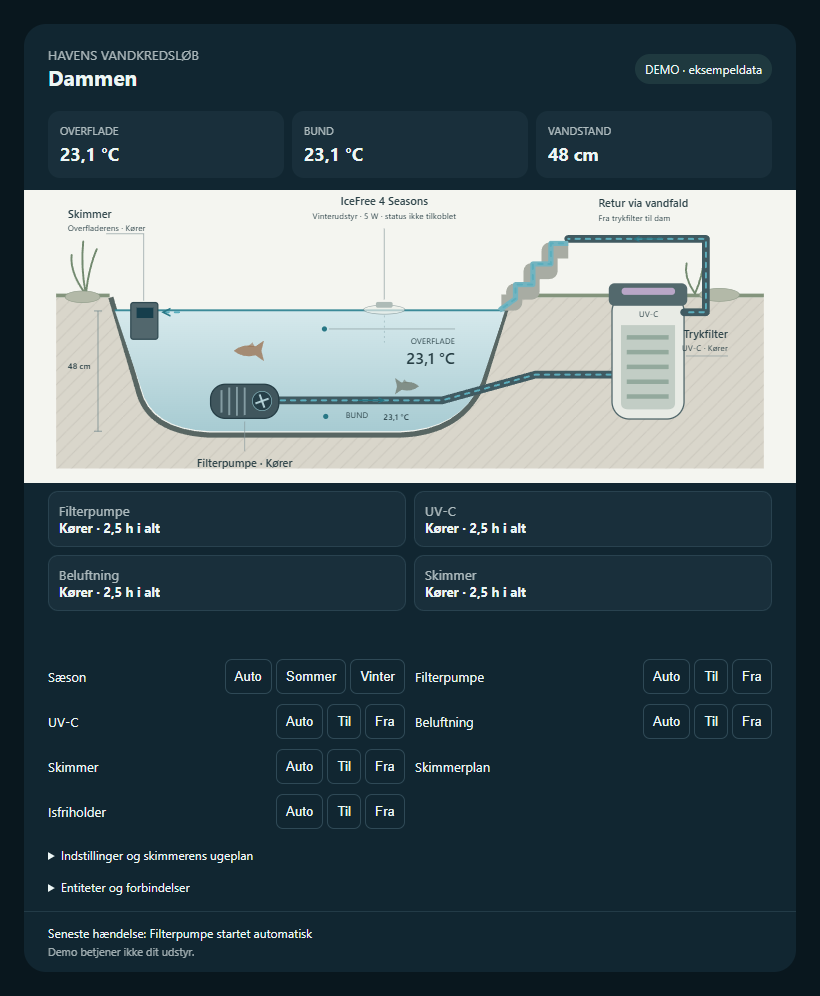
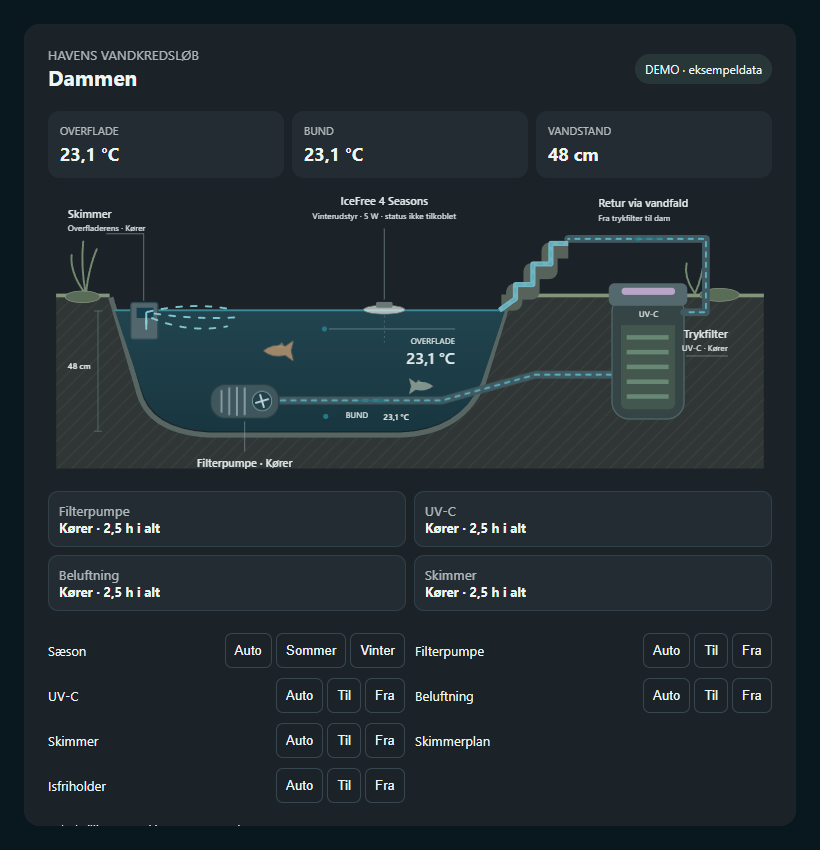
Add dark themed responsive layout and animated pond life

diff --git a/pond-flow-card.js b/pond-flow-card.js
@@ -12,7 +12,8 @@ class PondFlowCard extends HTMLElement {
     const signature = JSON.stringify([Object.keys({...labels,...this.config.entities}).map(key => this.state(key)),Object.entries(hass.states).filter(([id]) => id.startsWith(`number.${prefix}_`) || id.startsWith(`switch.${prefix}_`))]);
     if (signature !== this.signature) { this.signature = signature; this.render(); }
   }
-  getCardSize() { return 7; }
+  getCardSize() { return Math.ceil((this.getBoundingClientRect().height || 650) / 50); }
+  getGridOptions() { return {columns:12,min_columns:6,rows:12,min_rows:8}; }
   entity(key) {
     const explicit = this.config.entities?.[key];
     if (explicit && this._hass?.states[explicit]) return explicit;
@@ -42,6 +43,7 @@ class PondFlowCard extends HTMLElement {
   }
   render() {
     if (!this.config) return;
+    const fishTimes = [...this.shadowRoot.querySelectorAll('.fish-swim')].map(el => el.getAnimations()[0]?.currentTime);
     const demo = this.config.demo === true;
     const active = demo || this.running('pump_running');
     const val = (key, sample) => esc(demo ? sample : this.value(key));
@@ -49,25 +51,29 @@ class PondFlowCard extends HTMLElement {
     const operating = key => demo ? 'Kører' : !this.state(key) || ['unknown','unavailable'].includes(this.state(key).state) ? 'Ukendt' : this.running(key) ? 'Kører' : 'Stoppet';
     this.shadowRoot.innerHTML = `
     <style>
-      :host{display:block}ha-card{display:block;background:var(--ha-card-background,var(--card-background-color,#112631));color:var(--primary-text-color,#edf6f5);border-radius:22px;overflow:hidden;font-family:var(--paper-font-body1_-_font-family,system-ui)}
+      :host{display:block;min-width:0;width:100%;height:100%;container-type:inline-size}ha-card{display:flex;flex-direction:column;box-sizing:border-box;width:100%;height:100%;min-width:0;background:var(--ha-card-background,var(--card-background-color,#1c2328));color:var(--primary-text-color,#edf6f5);border-radius:var(--ha-card-border-radius,16px);overflow:auto;font-family:var(--paper-font-body1_-_font-family,system-ui)}
       header{padding:22px 24px 8px;display:flex;justify-content:space-between;align-items:center}h2{font-size:21px;margin:0}small{opacity:.7}.badge{font-size:12px;padding:7px 10px;border-radius:30px;background:#54887933}.metrics{display:grid;grid-template-columns:repeat(3,1fr);gap:8px;padding:12px 24px}.metric{background:#7396a415;padding:12px;border-radius:12px}.metric small{display:block;font-size:11px}.metric strong{display:block;margin-top:4px;font-size:18px}
-      svg{width:100%;height:auto;display:block}svg text{font-family:system-ui;fill:#d7e9ed;font-size:13px}.flow{fill:none;stroke:#53d5db;stroke-width:7;stroke-linecap:round;stroke-dasharray:9 14;opacity:.28}.active{opacity:1;animation:water 2s linear infinite}@keyframes water{to{stroke-dashoffset:-46}}@media(prefers-reduced-motion:reduce){.active{animation:none}}
+      svg{width:100%;height:auto;min-height:160px;flex:1 0 auto;display:block}ha-card> :not(svg){flex-shrink:0}svg text{font-family:system-ui;fill:#d7e9ed;font-size:13px}.flow{fill:none;stroke:#53d5db;stroke-width:7;stroke-linecap:round;stroke-dasharray:9 14;opacity:.28}.active{opacity:1;animation:water 2s linear infinite}@keyframes water{to{stroke-dashoffset:-46}}@media(prefers-reduced-motion:reduce){.active{animation:none}}
       .controls{padding:4px 24px 18px;display:grid;grid-template-columns:1fr 1fr;gap:10px}.control{display:flex;justify-content:space-between;align-items:center;gap:8px;font-size:13px}.control select{max-width:115px;padding:8px;border:1px solid #7196a550;border-radius:8px;background:var(--card-background-color,#193340);color:inherit}.status{padding:12px 24px;border-top:1px solid #7196a530;font-size:12px;line-height:1.6}.error{color:#f9a99b}.note{opacity:.65;font-size:11px}@media(max-width:420px){.controls{grid-template-columns:1fr}.metrics{padding:12px}.metric strong{font-size:15px}}
       [data-info]{cursor:pointer}.diagram-value{font-size:15px;font-weight:600;fill:#fff}.equipment{display:grid;grid-template-columns:repeat(2,minmax(0,1fr));gap:8px;padding:8px 24px 18px}.equipment button{font:inherit;text-align:left;color:inherit;background:#7396a415;border:1px solid #7196a530;border-radius:10px;padding:10px;cursor:pointer}.equipment small{display:block}.equipment strong{font-size:13px}.controls button{padding:9px;border-radius:7px;border:1px solid #7196a550;color:inherit;background:transparent;cursor:pointer}.controls button[aria-pressed=true]{background:#438b8b55}.options{display:flex;gap:4px;flex-wrap:wrap}.control{flex-wrap:wrap}.rotor{transform-box:fill-box;transform-origin:center;animation:spin 1.8s linear infinite}@keyframes spin{to{transform:rotate(360deg)}}@media(prefers-reduced-motion:reduce){.rotor{animation:none}}details{padding:0 24px 16px;font-size:12px;overflow-wrap:anywhere}
+      .fish-swim{animation:swim 22s linear infinite;transform-box:view-box;transform-origin:0 0}.fish:nth-of-type(even) .fish-swim{animation-duration:29s;animation-delay:-9s}@keyframes swim{0%{transform:translateX(50px) scaleX(1)}46%{transform:translateX(-60px) scaleX(1)}50%{transform:translateX(-60px) scaleX(-1)}96%{transform:translateX(50px) scaleX(-1)}100%{transform:translateX(50px) scaleX(1)}}
+      .skimmer-current path{fill:none;stroke:#8ad3dc;stroke-width:3;stroke-linecap:round;opacity:.15}.skimmer-current.moving path{opacity:.9;stroke-dasharray:9 14;animation:intake 1.5s linear infinite}.skimmer-current.moving path:nth-child(2){animation-delay:-.5s}.skimmer-current.moving path:nth-child(3){animation-delay:-1s}@keyframes intake{to{stroke-dashoffset:-46}}
+      @container(max-width:560px){header{padding:16px 14px 8px;gap:8px;flex-wrap:wrap}.metrics{padding:10px 14px}.equipment{padding:8px 14px 14px}.controls{grid-template-columns:1fr;padding:4px 14px 16px}.control{flex-wrap:nowrap}.options{justify-content:flex-end}.status{padding:12px 14px}details{padding:0 14px 14px}.metric{padding:10px 8px}.metric strong{font-size:16px}.badge{max-width:100%;overflow-wrap:anywhere}}
+      @media(prefers-reduced-motion:reduce){.fish-swim,.skimmer-current.moving path{animation:none}}
     </style>
     <ha-card>
       <header><div><small>HAVENS VANDKREDSLØB</small><h2>${esc(this.config.title || 'Dammen')}</h2></div><span class="badge">${demo ? 'DEMO · eksempeldata' : val('status','')}</span></header>
       <div class="metrics"><div class="metric"><small>OVERFLADE</small><strong>${val('temp_surface','23,1 °C')}</strong></div><div class="metric"><small>BUND</small><strong>${val('temp_bottom','23,1 °C')}</strong></div><div class="metric"><small>VANDSTAND</small><strong>${val('water_level','48 cm')}</strong></div></div>
 <svg class="pond-diagram" role="img" aria-label="Snit gennem dammen med fisk, skimmer, filterpumpe, trykfilter med UV-C og vandfald" xmlns="http://www.w3.org/2000/svg" viewBox="0 175 1200 455">
 <defs>
- <pattern id="earth" width="22" height="22" patternUnits="userSpaceOnUse"><path d="M0 22L22 0" stroke="#b9b6ac" stroke-width=".6"/></pattern>
- <linearGradient id="water" x2="0" y2="1"><stop stop-color="#d6e9ec"/><stop offset="1" stop-color="#a7cbd2"/></linearGradient>
+ <pattern id="earth" width="22" height="22" patternUnits="userSpaceOnUse"><path d="M0 22L22 0" stroke="#4a514c" stroke-width=".6"/></pattern>
+ <linearGradient id="water" x2="0" y2="1"><stop stop-color="#21444e"/><stop offset="1" stop-color="#183640"/></linearGradient>
  <marker id="arrow" viewBox="0 0 10 10" refX="8" refY="5" markerWidth="5" markerHeight="5" orient="auto-start-reverse"><path d="M0 1L8 5L0 9" fill="none" stroke="#287785" stroke-width="1.7"/></marker>
- <style>.pond-diagram text{font-family:Segoe UI,Arial,sans-serif;fill:#263d43}.label{font-size:17px;font-weight:600}.small{font-size:13px;fill:#63777b}.value{font-size:25px;font-weight:600}.leader{fill:none;stroke:#86979a;stroke-width:1}.pipe{fill:none;stroke:#405a61;stroke-width:12;stroke-linejoin:round;stroke-linecap:round}.flow{fill:none;stroke:#5baebd;stroke-width:3;stroke-dasharray:7 9;opacity:.3}.frame{fill:#f9faf7;stroke:#d8dfdb;stroke-width:1}.flow.active{opacity:1}.fish{pointer-events:none}</style>
+ <style>.pond-diagram text{font-family:Segoe UI,Arial,sans-serif;fill:var(--primary-text-color,#e1e8e9)}.label{font-size:17px;font-weight:600}.small{font-size:13px;fill:#63777b}.value{font-size:25px;font-weight:600}.leader{fill:none;stroke:#86979a;stroke-width:1}.pipe{fill:none;stroke:#405a61;stroke-width:12;stroke-linejoin:round;stroke-linecap:round}.flow{fill:none;stroke:#5baebd;stroke-width:3;stroke-dasharray:7 9;opacity:.3}.frame{fill:#f9faf7;stroke:#d8dfdb;stroke-width:1}.flow.active{opacity:1}.fish{pointer-events:none}</style>
 </defs>
-<rect width="1200" height="760" rx="24" fill="#f4f5f0"/>
+<rect width="1200" height="760" rx="24" fill="var(--ha-card-background,var(--card-background-color,#1c2328))"/>
 <!-- Tydeligt tværsnit: jord, bassinfolie og vand. -->
-<path d="M50 342H135L177 485Q192 551 288 556H584Q681 553 714 475L755 342H1150V608H50Z" fill="#d9d6cb"/>
+<path d="M50 342H135L177 485Q192 551 288 556H584Q681 553 714 475L755 342H1150V608H50Z" fill="#303635"/>
 <path d="M50 342H135L177 485Q192 551 288 556H584Q681 553 714 475L755 342H1150V608H50Z" fill="url(#earth)"/>
 <path d="M135 342L177 485Q192 551 288 556H584Q681 553 714 475L755 342" fill="none" stroke="#586663" stroke-width="8"/>
 <path d="M141 362H748L711 474Q679 547 584 550H288Q198 546 182 483Z" fill="url(#water)"/>
@@ -76,11 +82,11 @@ class PondFlowCard extends HTMLElement {
 
 <!-- Beplantning, sparsomt og uden illustrationseffekter. -->
 <g fill="none" stroke="#738a70" stroke-width="3" stroke-linecap="round"><path d="M96 337Q71 304 74 276M96 337Q101 294 113 267M96 337Q88 294 92 255M1043 336Q1025 310 1030 289M1043 336Q1055 309 1057 282"/></g>
-<g fill="#b3b9a8" stroke="#8f9b89"><ellipse cx="91" cy="341" rx="27" ry="9"/><ellipse cx="1081" cy="338" rx="31" ry="10"/></g>
+<g fill="#596c57" stroke="#8f9b89"><ellipse cx="91" cy="341" rx="27" ry="9"/><ellipse cx="1081" cy="338" rx="31" ry="10"/></g>
 
 <!-- Fish are decorative silhouettes, not live measurements. -->
-<g aria-hidden="true" class="fish" transform="translate(350 425)"><path d="M-24 0Q-10-12 10-7L23-16L19 0L23 16L10 7Q-10 12-24 0Z" fill="#9b7353" opacity=".78"/><path d="M-3-6L5-13L9-6" fill="#9b7353" opacity=".6"/></g>
-<g aria-hidden="true" class="fish" transform="translate(595 480) scale(-.8 .8)"><path d="M-24 0Q-10-12 10-7L23-16L19 0L23 16L10 7Q-10 12-24 0Z" fill="#737d73" opacity=".8"/><path d="M-3-6L5-13L9-6" fill="#737d73" opacity=".6"/></g>
+<g aria-hidden="true" class="fish" transform="translate(350 425)"><g class="fish-swim"><path d="M-24 0Q-10-12 10-7L23-16L19 0L23 16L10 7Q-10 12-24 0Z" fill="#c49a72" opacity=".78"/><path d="M-3-6L5-13L9-6" fill="#c49a72" opacity=".6"/></g></g>
+<g aria-hidden="true" class="fish" transform="translate(595 480) scale(-.8 .8)"><g class="fish-swim"><path d="M-24 0Q-10-12 10-7L23-16L19 0L23 16L10 7Q-10 12-24 0Z" fill="#9aa99d" opacity=".8"/><path d="M-3-6L5-13L9-6" fill="#9aa99d" opacity=".6"/></g></g>
 <!-- Filterpumpe og trykledning. -->
 <path class="pipe" d="M391 502H650L795 462H913"/>
 <path class="flow ${active ? 'active' : ''}" d="M391 502H650L795 462H913"/>
@@ -91,9 +97,9 @@ class PondFlowCard extends HTMLElement {
 <path class="${active ? 'rotor' : ''}" d="M370 492V514M359 503H381" stroke="#b8d6dc" stroke-width="3"/>
 
 <!-- Filtrets reelle rolle: beholder, filtermaterialer og UV-C i toppen. -->
-<rect x="914" y="337" width="112" height="194" rx="27" fill="#e8ebE5" stroke="#50666a" stroke-width="2"/>
-<path d="M928 385H1012V506Q1012 516 1000 516H940Q928 516 928 506Z" fill="#c2cdc5"/>
-<g stroke="#93a99d" stroke-width="7"><path d="M937 404H1002M937 427H1002M937 450H1002M937 473H1002M937 496H1002"/></g>
+<rect x="914" y="337" width="112" height="194" rx="27" fill="#354445" stroke="#50666a" stroke-width="2"/>
+<path d="M928 385H1012V506Q1012 516 1000 516H940Q928 516 928 506Z" fill="#43574e"/>
+<g stroke="#688775" stroke-width="7"><path d="M937 404H1002M937 427H1002M937 450H1002M937 473H1002M937 496H1002"/></g>
 <rect x="909" y="320" width="122" height="35" rx="9" fill="#53696d"/>
 <rect x="929" y="327" width="83" height="11" rx="5" fill="${demo || this.running('uv_running') ? '#b9a6c7' : '#86948e'}"/>
 <text x="971" y="372" text-anchor="middle" class="small">UV-C</text>
@@ -102,14 +108,16 @@ class PondFlowCard extends HTMLElement {
 <path class="pipe" d="M1026 365H1060V251H846"/>
 <path class="flow ${active ? 'active' : ''}" d="M1026 365H1060V251H846"/>
 <path d="M993 251H949" fill="none" stroke="#287785" stroke-width="2" marker-end="url(#arrow)"/>
-<path d="M846 269H817V301H789V333H762V350H742" fill="none" stroke="#a8aca3" stroke-width="25" stroke-linejoin="round"/>
+<path d="M846 269H817V301H789V333H762V350H742" fill="none" stroke="#57625b" stroke-width="25" stroke-linejoin="round"/>
 <path d="M846 258H819V290H791V322H764V344L739 362" fill="none" stroke="#73b4c0" stroke-width="8" stroke-linejoin="round"/>
 <path d="M846 258H819V290H791V322H764V344L739 362" class="flow ${active ? 'active' : ''}" stroke="#e0f1f1"/>
 
 <!-- Skimmer i vandlinjen, adskilt fra det kendte filterkredsløb. -->
 <rect x="166" y="350" width="42" height="57" rx="4" fill="#52676d" stroke="#314a52" stroke-width="2"/>
 <rect x="175" y="358" width="26" height="16" fill="#163e4c"/>
-<path d="M249 365H216" class="flow ${demo || this.running('skimmer_running') ? 'active' : ''}" marker-end="url(#arrow)"/>
+<g class="skimmer-current ${demo || this.running('skimmer_running') ? 'moving' : ''}">
+<path d="M325 361Q260 348 190 365V391"/><path d="M330 373Q260 377 190 365V391"/><path d="M316 387Q250 399 190 370V391"/>
+</g>
 
 <!-- Isfriholder: kendt udstyr, ingen opdigtet elektrisk status. -->
 <g opacity=".68"><ellipse cx="560" cy="361" rx="32" ry="7" fill="#ecefe9" stroke="#697e80"/><rect x="547" y="349" width="26" height="9" rx="3" fill="#8d9f9c"/><path d="M560 370V412" stroke="#789aa1" stroke-dasharray="3 5"/></g>
@@ -126,7 +134,7 @@ class PondFlowCard extends HTMLElement {
 
 </svg>
       <div class="equipment">${[['pump_running','Filterpumpe','pump_hours'],['uv_running','UV-C','uv_hours'],['aerator_running','Beluftning','aerator_hours'],['skimmer_running','Skimmer','skimmer_hours']].map(([key,label,hours]) => `<button data-info="${key}"><small>${label}</small><strong>${esc(operating(key))} · ${val(hours,'2,5 h')} i alt</strong></button>`).join('')}</div>
-      <div class="equipment">${[...binaryKeys].filter(key => this.state(key)).map(key => `<button data-info="${key}" ${this.running(key) ? 'class="error"' : ''}><small>${esc(labels[key])}</small><strong>${['unknown','unavailable'].includes(this.state(key).state) ? 'Ukendt' : this.running(key) ? 'Aktiv' : 'OK'}</strong></button>`).join('')}</div>
+      ${[...binaryKeys].some(key => this.state(key) && this.state(key).state !== 'off') ? `<div class="equipment alarms" role="status">${[...binaryKeys].filter(key => this.state(key) && this.state(key).state !== 'off').map(key => `<button data-info="${key}" class="error"><small>${esc(labels[key])}</small><strong>${['unknown','unavailable'].includes(this.state(key).state) ? 'Status utilgængelig' : 'Aktiv'}</strong></button>`).join('')}</div>` : ''}
       <div class="controls">${controls.map(([key,label]) => {
         const state = this.state(key);
         const options = state?.attributes.options || (key === 'season' ? ['Auto','Sommer','Vinter'] : key === 'skimmer_plan' ? [] : ['Auto','Til','Fra']);
@@ -137,6 +145,7 @@ class PondFlowCard extends HTMLElement {
       <details><summary>Entiteter og forbindelser</summary>${Object.keys(labels).map(key => `<div>${esc(labels[key])}: ${this.state(key) ? '✓' : 'Mangler'} <code>${esc(this.entity(key))}</code></div>`).join('')}</details>
       <div class="status">Seneste hændelse: ${val('last_event','Filterpumpe startet automatisk')}<br><span class="note">${demo ? 'Demo betjener ikke dit udstyr.' : 'Tryk på en måling eller udstyrsstatus for detaljer. Relæstatus bekræfter ikke fysisk drift.'}</span>${this.error ? `<div class="error" role="alert">${esc(this.error)}</div>` : ''}</div>
     </ha-card>`;
+    this.shadowRoot.querySelectorAll('.fish-swim').forEach((el,index) => { const animation=el.getAnimations()[0]; if (animation && fishTimes[index] != null) animation.currentTime=fishTimes[index]; });
     this.shadowRoot.querySelectorAll('[data-key]').forEach(el => el.addEventListener('click', () => this.change(el.dataset.key,el.dataset.option)));
     this.shadowRoot.querySelectorAll('[data-entity]').forEach(el => el.addEventListener('click', () => { if (!demo) this.dispatchEvent(new CustomEvent('hass-more-info',{detail:{entityId:el.dataset.entity},bubbles:true,composed:true})); }));
     this.shadowRoot.querySelectorAll('[data-info]').forEach(el => {

diff --git a/README.md b/README.md
@@ -1,5 +1,9 @@
 # Pond Flow Card
 
+Version 0.4.0 dæmper diagrammet og bruger HA-temaets baggrund og tekstfarve. Fiskene svømmer roligt frem og tilbage, og skimmeren har tre strømspor, der kun bevæger sig ved aktiv skimmerstatus. Bevægelse respekterer reduceret bevægelse i systemindstillingerne. OK-alarmer er skjult; aktive alarmer og utilgængelig alarmstatus vises.
+
+Kortet følger containerens bredde og understøtter HA Sections-grid med justerbar bredde og højde (standard 12 kolonner/12 rækker, minimum 6 kolonner/8 rækker). Brug dashboardeditorens layoutindstillinger. Ved lav højde kan indholdet rulles i kortet. Masonry beregner kortets højde fra den aktuelle visning.
+
 Version 0.3.0 bruger det godkendte arkitektoniske snit: jord, bassinfolie, vand, filterpumpe, trykfilter med UV-C, retur via vandfald, skimmer og isfriholder. To diskrete fisk er dekorative. Udstyrets animationer og værdier følger fortsat HA-entiteterne. Diagrammet bygges ind i den selvstændige JavaScript-fil; HACS skal ikke hente ekstra billedfiler.
 
 Version 0.2.1 matcher controllerens faktiske `koerer`-entiteter, viser samlede driftstimer og tilføjer skimmerstatus, skimmertilstand, skimmerplan og alarmer. Sæsonvalg, påfyldning og isfriholderens betjening skjules, når controlleren ikke har disse funktioner. Indstillinger og ugeplan kan åbnes i HA via kortets foldbare indstillingsfelt.
